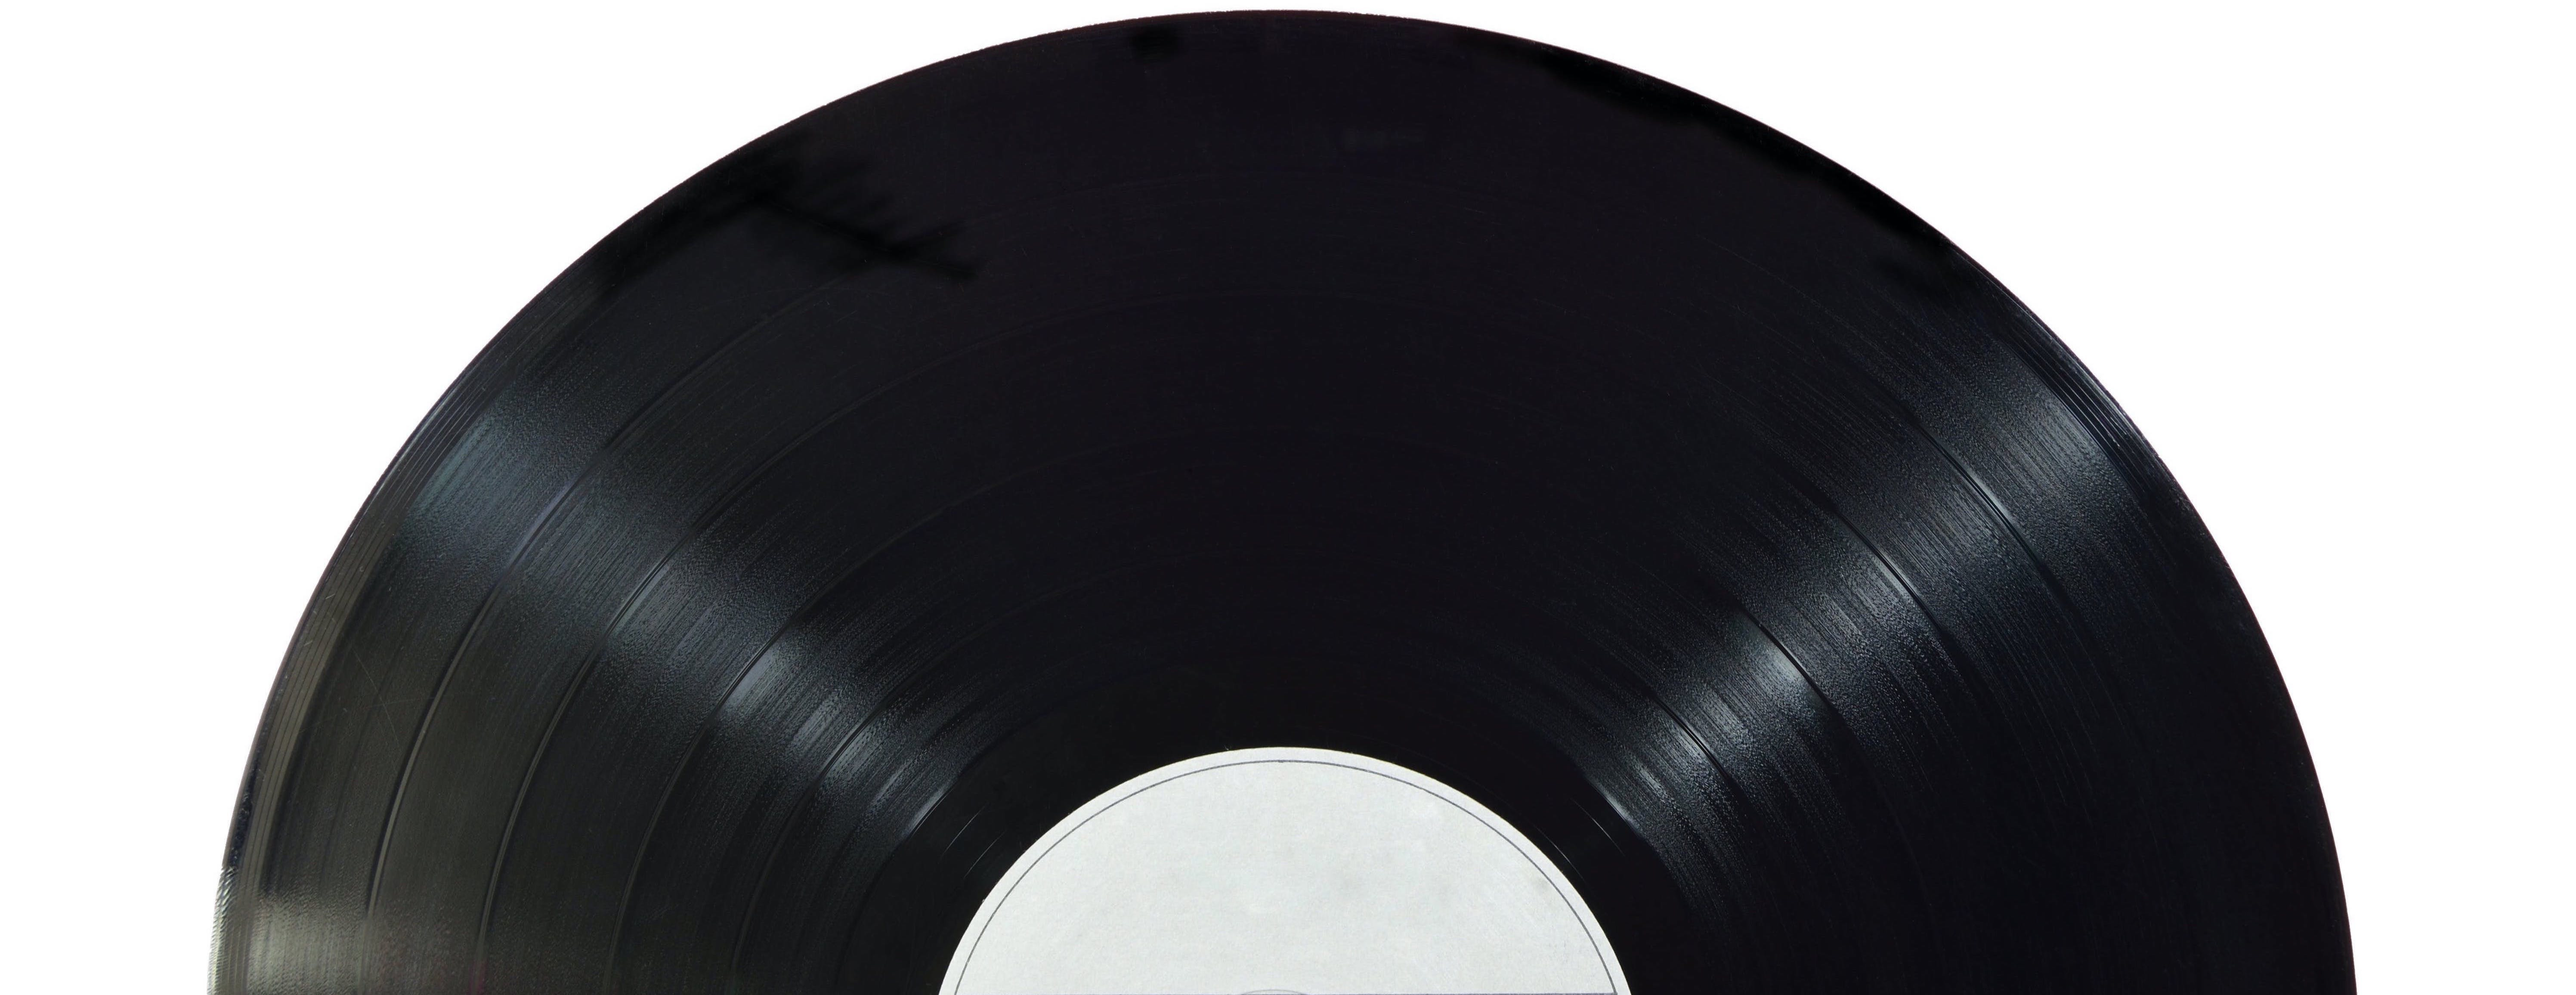
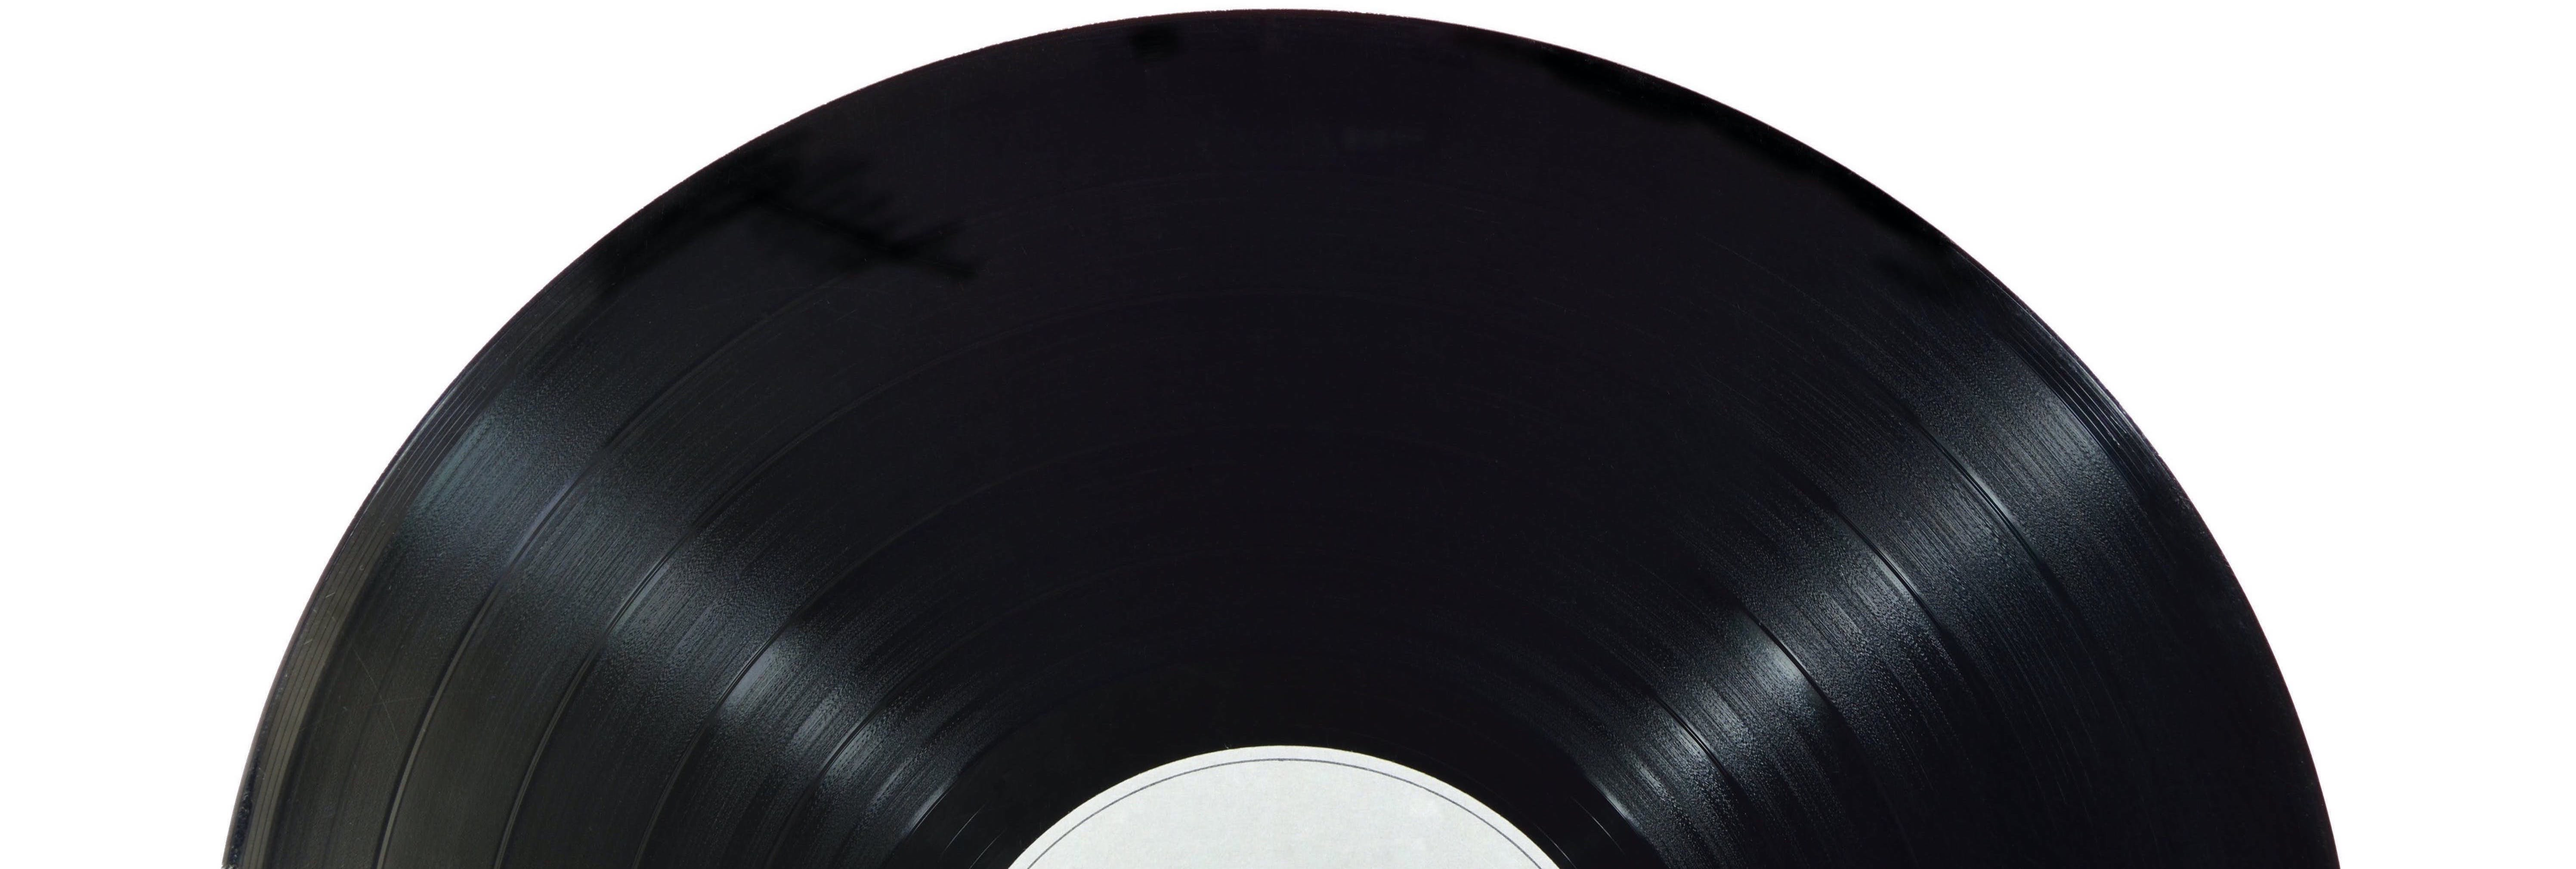
updated bg homepage

diff --git a/src/Components/backgrounds.css b/src/Components/backgrounds.css
@@ -9,13 +9,30 @@
   --primary-yellow: #f3b803;
 }
 .bg-proMusic {
-  background-image: url("../../public/assets/images/images/vinilenero\ copia\ 2.jpeg");
+  background-image: url("../../public/assets/images/images/vinilenero.jpeg");
   background-size: contain;
   background-repeat: no-repeat;
   background-position: bottom;
   height: 37.5vh;
-  transition: all 1.2s;
+  transition: 1.2s;
 }
+.bg-proMusic2 {
+  background-image: url("../../public/assets/images/images/vinilenero\ copia.jpeg");
+  background-size: contain;
+  background-repeat: no-repeat;
+  background-position: top;
+  height: 37.5vh;
+  transition: 1.2s;
+}
+.bg-proMiddle {
+  transition: 1.2s;
+  background-color: #161f1e;
+  background-size: contain;
+  background-repeat: no-repeat;
+  background-position: center;
+  height: 13vh;
+}
+
 .bg-dark1 {
   background-color: var(--secondary-dark);
 }
@@ -43,21 +60,7 @@
 .bg-light2faded {
   background: linear-gradient(to right, var(--secondary-dark), whitesmoke);
 }
-.bg-proMusic2 {
-  background-image: url("../../public/assets/images/images/vinilenero\ copia\ 3.jpeg");
-  background-size: contain;
-  background-repeat: no-repeat;
-  background-position: top;
-  height: 37.5vh;
-}
-.bg-proMiddle {
-  /* background-image: url("../../public/assets/images/images/duechitarre.jpeg"); */
-  background-color: #161f1e;
-  background-size: contain;
-  background-repeat: no-repeat;
-  background-position: center;
-  height: 13vh;
-}
+
 .bg-partner {
   background: url("../../public/assets/images/tuba-gd72895bc6_1280.jpeg");
   background-size: cover;

diff --git a/src/Components/LandingPage/Hero/HeroSection.jsx b/src/Components/LandingPage/Hero/HeroSection.jsx
@@ -1,17 +1,16 @@
-import { useState } from "react";
 import { Col, Container, Row } from "react-bootstrap";
 
 const HeroSection = () => {
-  const [heroHover, setHeroHover] = useState(false);
+  // const [heroHover, setHeroHover] = useState(false);
   return (
     <Container fluid className="p-0 m-0">
       <Row
-        onMouseEnter={() => {
-          setHeroHover(true);
-        }}
-        onMouseLeave={() => {
-          setHeroHover(false);
-        }}
+        // onMouseEnter={() => {
+        //   setHeroHover(true);
+        // }}
+        // onMouseLeave={() => {
+        //   setHeroHover(false);
+        // }}
         className="p-0 m-0"
       >
         <Col className="col-12 bg-proMusic"></Col>
@@ -20,7 +19,7 @@ const HeroSection = () => {
             id="heroFrase"
             className="w-100 h-100 d-flex align-items-center justify-content-center bg-filterdark text-center"
           >
-            "MUSIC IS THE ONLY REASON"
+            "MUSIC{"  "}IS{"  "}THE{"  "}ONLY{"  "}REASON"
           </div>
         </Col>
         <Col className="col-12 bg-proMusic2"></Col>

diff --git a/src/Components/LandingPage/Landingpage.jsx b/src/Components/LandingPage/Landingpage.jsx
@@ -1,23 +1,8 @@
-// import { useEffect, useState } from "react";
 import { Col, Row } from "react-bootstrap";
 import HeroSection from "./Hero/HeroSection";
 import Aside from "./Aside/Aside";
 
 const Landingpage = () => {
-  // const [scrollTop, setScrollTop] = useState(0);
-
-  // useEffect(() => {
-  //   const handleScroll = (event) => {
-  //     setScrollTop(window.scrollY);
-  //     console.log(window.scrollY);
-  //   };
-
-  //   window.addEventListener("scroll", handleScroll);
-
-  //   return () => {
-  //     window.removeEventListener("scroll", handleScroll);
-  //   };
-  // }, []);
   return (
     <>
       <Row id="hero" className="p-0 m-0 h-100 w-100 ">
@@ -26,7 +11,7 @@ const Landingpage = () => {
       <Row>
         <Col className="col-12 text-dark text-center border-bottom border-black pb-2 fs-2 ">
           <span className="border-top border-black pt-2 px-5 text-shadow">
-            SOMETHING
+            HAVE A LOOK
           </span>
         </Col>
         <Col className="col-12 px-0">

diff --git a/src/Components/LandingPage/landingPage.css b/src/Components/LandingPage/landingPage.css
@@ -13,6 +13,22 @@
   letter-spacing: 2em;
   color: var(--primary-gray);
   font-weight: bold;
-  transition: 0.8s;
+  transition: 1.8s;
   text-shadow: 4px 4px 10px rgba(255, 255, 255, 0.533);
+}
+@media screen and (max-width: 850px) {
+  #heroFrase {
+    letter-spacing: 1.5em;
+  }
+}
+@media screen and (max-width: 600px) {
+  #heroFrase {
+    letter-spacing: 1em;
+  }
+  .bg-proMusic {
+    background-image: url("../../../public/assets/images/images/vinilenero\ copia\ 2.jpeg");
+  }
+  .bg-proMusic2 {
+    background-image: url("../../../public/assets/images/images/vinilenero\ copia\ 3.jpeg");
+  }
 }
